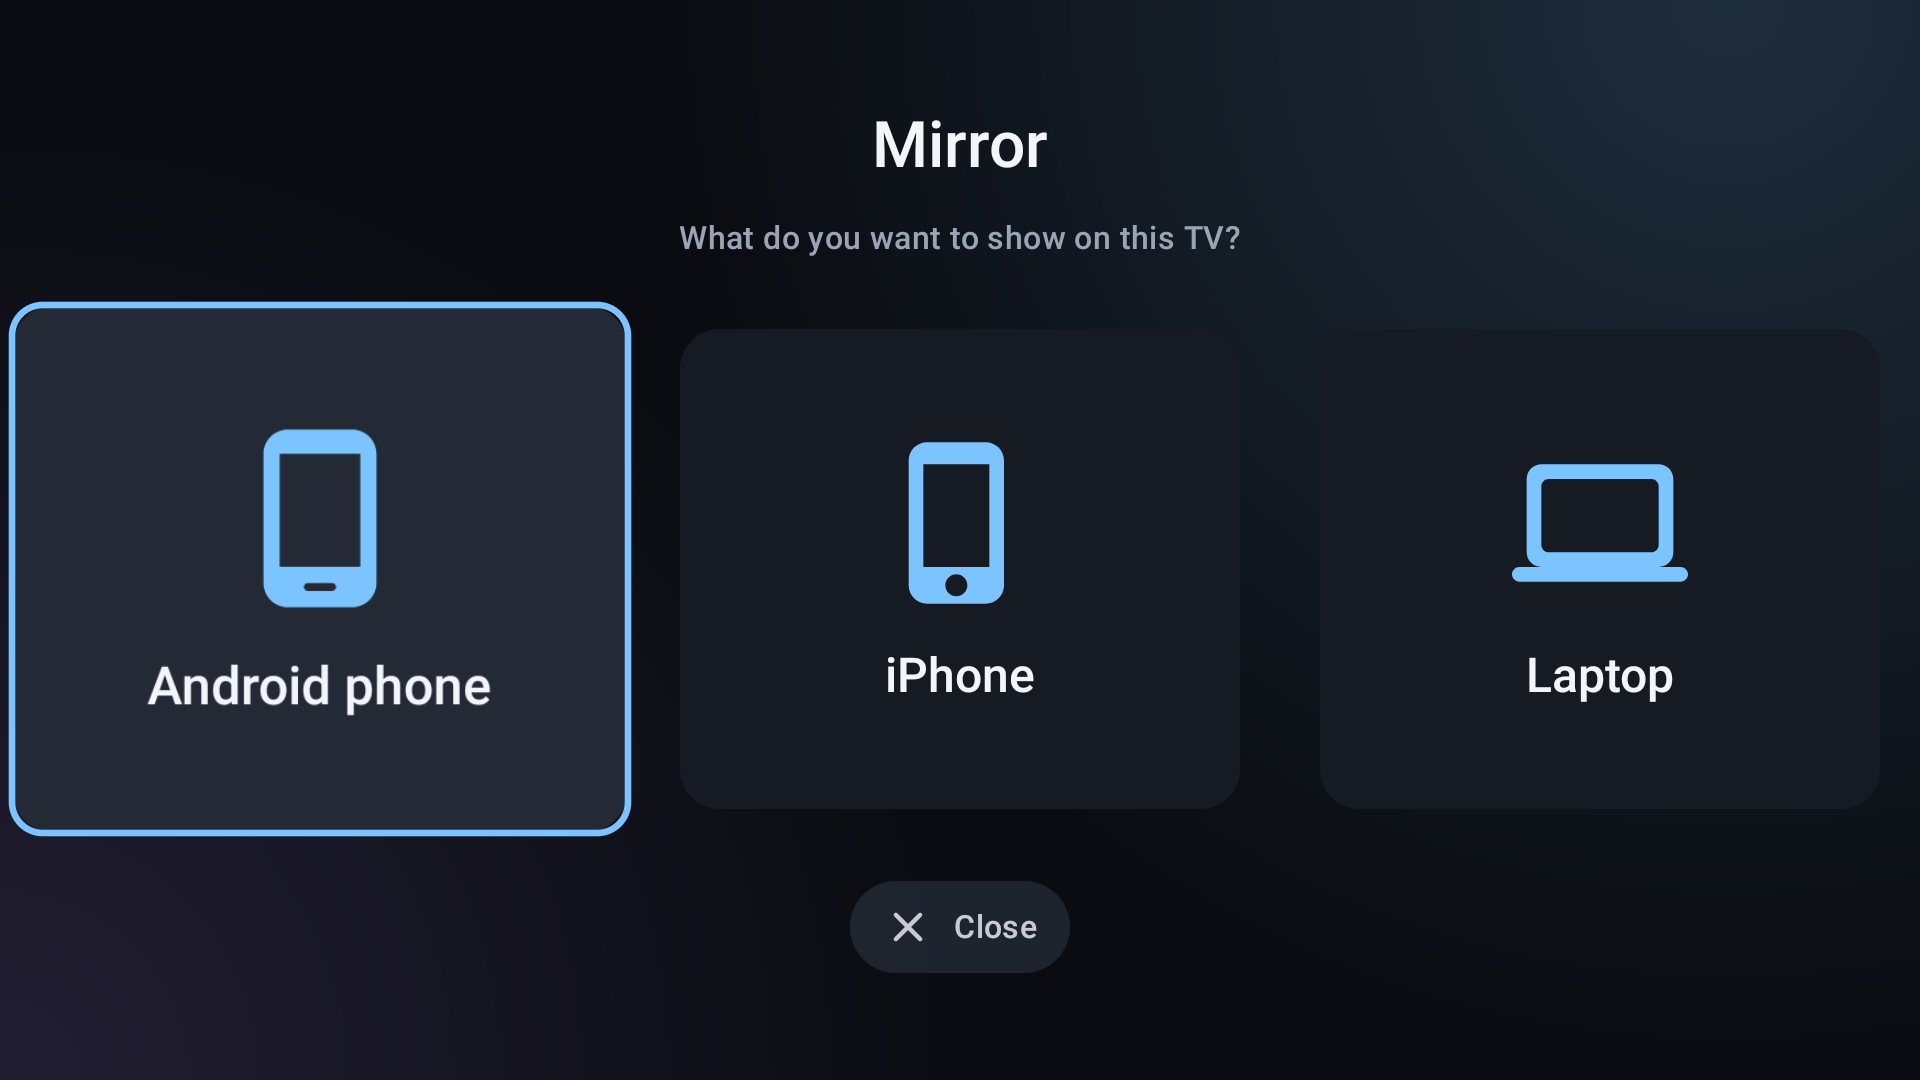
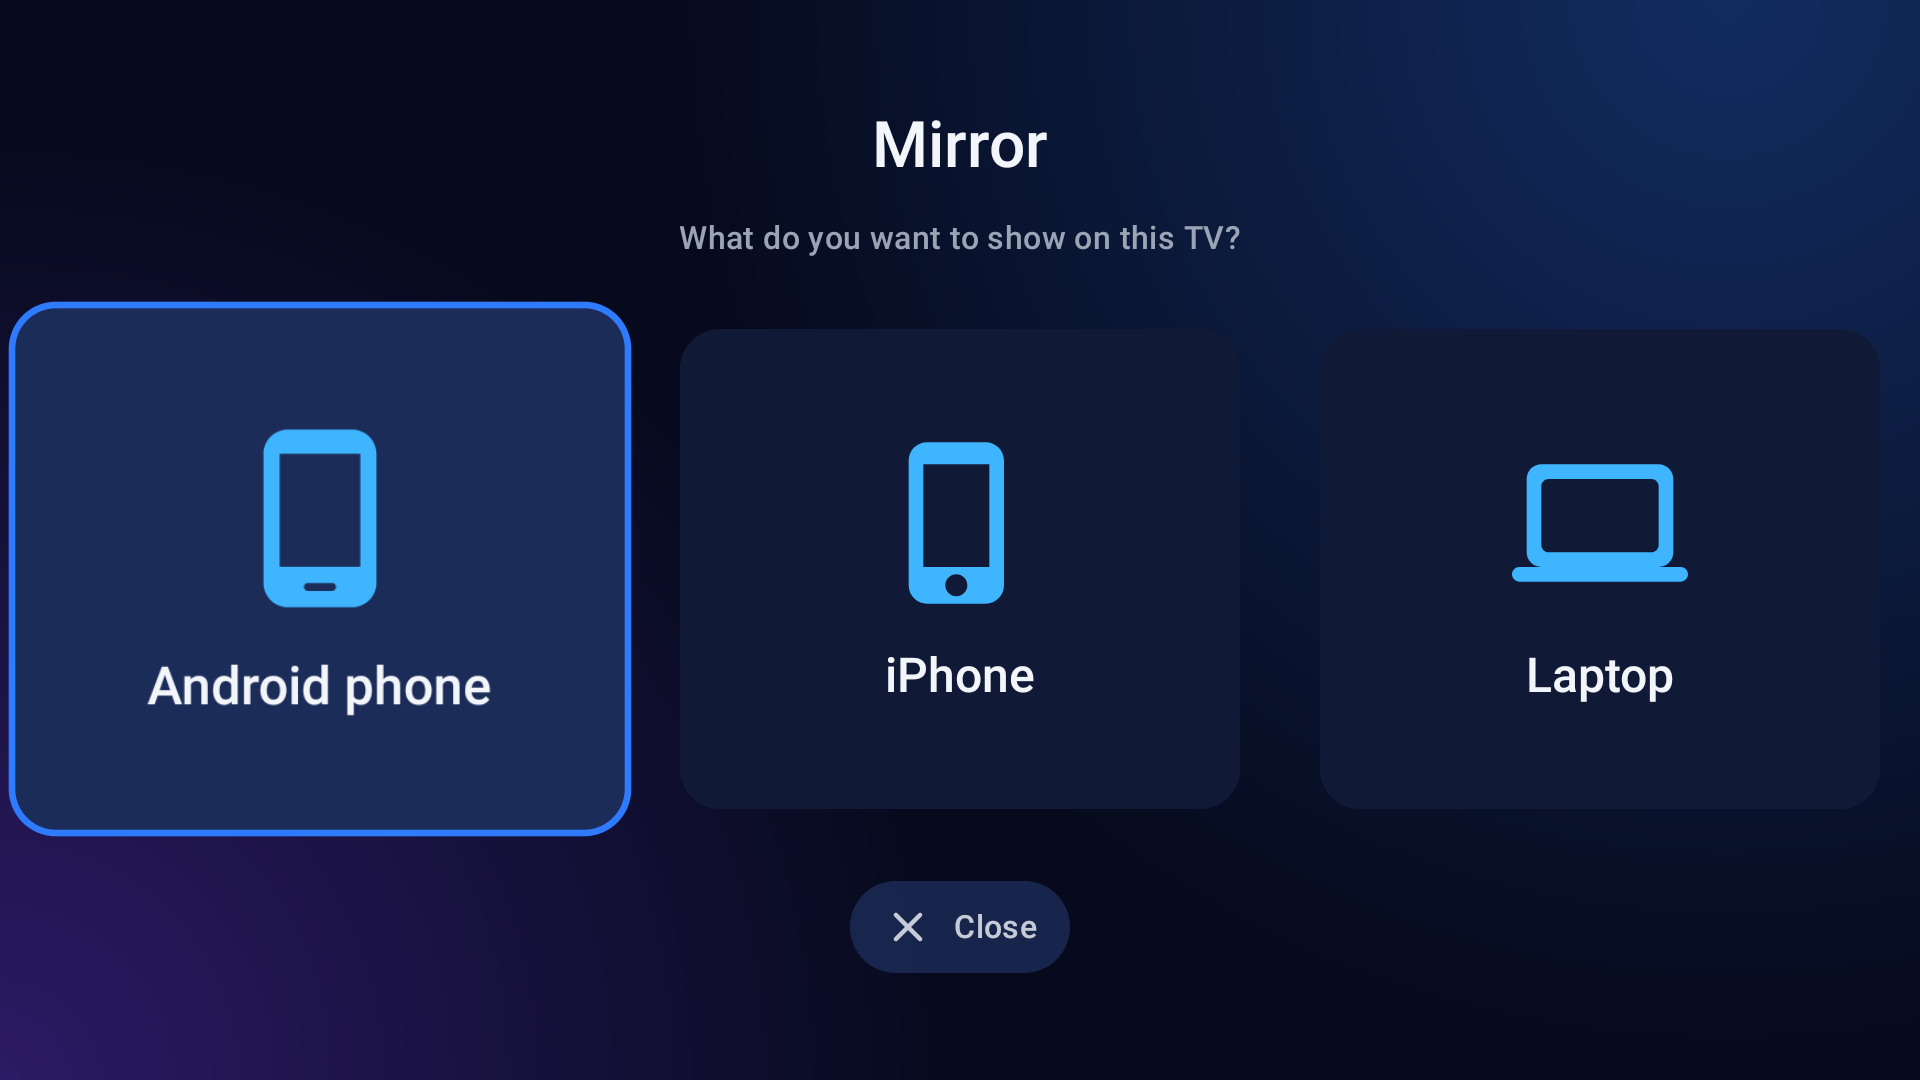
Restyle home screen: navy theme, ruled section titles, glow focus
Deeper navy backdrop with blue and violet washes, section titles with
fading rules, wider input and system tiles, rounder corners and a blue
glow on the focused tile. Refresh the home, system row, all apps, apps
manager and mirror choice screenshots.

diff --git a/app/src/main/java/dev/mahesh/icontrol/ui/Components.kt b/app/src/main/java/dev/mahesh/icontrol/ui/Components.kt
@@ -12,6 +12,7 @@ import androidx.compose.foundation.layout.PaddingValues
 import androidx.compose.foundation.layout.Row
 import androidx.compose.foundation.layout.fillMaxSize
 import androidx.compose.foundation.layout.fillMaxWidth
+import androidx.compose.foundation.layout.height
 import androidx.compose.foundation.layout.padding
 import androidx.compose.foundation.layout.size
 import androidx.compose.foundation.lazy.LazyRow
@@ -45,7 +46,7 @@ import androidx.tv.material3.Text
 import dev.mahesh.icontrol.data.AppEntry
 import dev.mahesh.icontrol.data.AppImage
 
-private val CardShape = RoundedCornerShape(14.dp)
+private val CardShape = RoundedCornerShape(20.dp)
 
 /** The focused item is 30% larger than the rest so it is unmistakable from across the room. */
 const val FocusedScale = 1.3f
@@ -62,9 +63,14 @@ internal fun focusColors() = ClickableSurfaceDefaults.colors(
 @Composable
 internal fun focusBorder() = ClickableSurfaceDefaults.border(
     focusedBorder = androidx.tv.material3.Border(
-        border = BorderStroke(3.dp, Palette.Accent),
+        border = BorderStroke(3.dp, Palette.Glow),
         shape = CardShape,
     ),
+)
+
+@Composable
+internal fun focusGlow() = ClickableSurfaceDefaults.glow(
+    focusedGlow = androidx.tv.material3.Glow(elevationColor = Palette.Glow.copy(alpha = 0.6f), elevation = 18.dp),
 )
 
 @Composable
@@ -77,15 +83,36 @@ fun SectionRow(
         horizontalAlignment = Alignment.CenterHorizontally,
         modifier = modifier.fillMaxWidth(),
     ) {
-        Text(
-            text = title,
-            style = MaterialTheme.typography.titleMedium,
-            color = Palette.TextSecondary,
-            fontWeight = FontWeight.SemiBold,
-            modifier = Modifier.padding(top = 6.dp, bottom = 8.dp),
-        )
+        Row(
+            verticalAlignment = Alignment.CenterVertically,
+            modifier = Modifier
+                .fillMaxWidth()
+                .padding(horizontal = ScreenPadding)
+                .padding(top = 6.dp, bottom = 8.dp),
+        ) {
+            SectionRule(Modifier.weight(1f), toEnd = true)
+            Text(
+                text = title,
+                style = MaterialTheme.typography.titleMedium,
+                color = Palette.SectionTitle,
+                fontWeight = FontWeight.SemiBold,
+                modifier = Modifier.padding(horizontal = 16.dp),
+            )
+            SectionRule(Modifier.weight(1f), toEnd = false)
+        }
         content()
     }
+}
+
+/** Hairline that fades out away from the section title. */
+@Composable
+private fun SectionRule(modifier: Modifier, toEnd: Boolean) {
+    val line = Palette.SectionTitle.copy(alpha = 0.45f)
+    Box(
+        modifier = modifier
+            .height(1.dp)
+            .background(Brush.horizontalGradient(if (toEnd) listOf(Color.Transparent, line) else listOf(line, Color.Transparent))),
+    )
 }
 
 /**
@@ -143,6 +170,7 @@ fun AppCard(
         shape = ClickableSurfaceDefaults.shape(CardShape),
         colors = focusColors(),
         border = focusBorder(),
+        glow = focusGlow(),
         scale = ClickableSurfaceDefaults.scale(focusedScale = focusedScale),
         modifier = modifier
             .size(width = width, height = width * 9 / 16)
@@ -182,6 +210,7 @@ fun ActionTile(
         shape = ClickableSurfaceDefaults.shape(CardShape),
         colors = focusColors(),
         border = focusBorder(),
+        glow = focusGlow(),
         scale = ClickableSurfaceDefaults.scale(focusedScale = focusedScale),
         modifier = modifier
             .size(width = width, height = width * 9 / 16)
@@ -259,28 +288,30 @@ fun ShortcutTile(
     onFocused: (String) -> Unit,
     modifier: Modifier = Modifier,
     width: Dp = 140.dp,
+    focusedScale: Float = 1.08f,
 ) {
     Surface(
         onClick = onClick,
         shape = ClickableSurfaceDefaults.shape(CardShape),
         colors = focusColors(),
         border = focusBorder(),
-        scale = ClickableSurfaceDefaults.scale(focusedScale = FocusedScale),
+        glow = focusGlow(),
+        scale = ClickableSurfaceDefaults.scale(focusedScale = focusedScale),
         modifier = modifier
-            .size(width = width, height = 52.dp)
+            .size(width = width, height = 60.dp)
             .onFocusChanged { if (it.hasFocus) onFocused(label) },
     ) {
         Row(
             verticalAlignment = Alignment.CenterVertically,
             modifier = Modifier
                 .fillMaxSize()
-                .padding(horizontal = 12.dp),
+                .padding(horizontal = 16.dp),
         ) {
             Icon(
                 imageVector = icon,
                 contentDescription = null,
                 tint = Palette.Accent,
-                modifier = Modifier.size(24.dp),
+                modifier = Modifier.size(28.dp),
             )
             Text(
                 text = label,
@@ -290,7 +321,7 @@ fun ShortcutTile(
                 overflow = TextOverflow.Ellipsis,
                 modifier = Modifier
                     .fillMaxWidth()
-                    .padding(start = 8.dp),
+                    .padding(start = 12.dp),
             )
         }
     }

diff --git a/app/src/main/java/dev/mahesh/icontrol/ui/HomeScreen.kt b/app/src/main/java/dev/mahesh/icontrol/ui/HomeScreen.kt
@@ -113,13 +113,14 @@ fun HomeScreen(viewModel: LauncherViewModel) {
             if (hasInputs) {
                 item(key = "inputs") {
                     SectionRow("Inputs") {
-                        CardRow(verticalPadding = TileFocusPadding) {
+                        CardRow(verticalPadding = TileFocusPadding, gap = 24.dp) {
                             items(state.inputs, key = { "input-" + it.id }) { input ->
                                 ShortcutTile(
                                     label = input.label,
                                     icon = Icons.Rounded.Cable,
                                     onClick = { launch(viewModel.repository.inputIntent(input)) },
                                     onFocused = onFocused,
+                                    width = 200.dp,
                                     modifier = if (input == state.inputs.first()) {
                                         Modifier.optionalFocusRequester(firstFocus)
                                     } else Modifier,
@@ -183,7 +184,7 @@ fun HomeScreen(viewModel: LauncherViewModel) {
             item(key = "system") {
                 SectionRow("System") {
                     // Six narrower tiles with a tighter gap so the row fits the screen (a focused tile grows ~18dp each side).
-                    CardRow(verticalPadding = TileFocusPadding, gap = 24.dp) {
+                    CardRow(verticalPadding = TileFocusPadding, gap = 14.dp) {
                         items(SystemShortcuts, key = { it.key }) { shortcut ->
                             ShortcutTile(
                                 label = shortcut.label,
@@ -197,7 +198,7 @@ fun HomeScreen(viewModel: LauncherViewModel) {
                                     }
                                 },
                                 onFocused = onFocused,
-                                width = 120.dp,
+                                width = 132.dp,
                             )
                         }
                     }
@@ -261,7 +262,7 @@ private val FavoriteGap = 56.dp
 
 // Room each row needs above/below so a focused card isn't clipped by the lazy list: 15% of its height, rounded up.
 // Tiles are 52dp tall; favorite cards are about 129dp tall.
-private val TileFocusPadding = 10.dp
+private val TileFocusPadding = 12.dp
 private val FavoriteFocusPadding = 24.dp
 
 @Composable
@@ -295,14 +296,14 @@ private fun Header(focusedLabel: String) {
                 Text(
                     text = meridiem,
                     style = MaterialTheme.typography.titleLarge,
-                    color = Palette.TextSecondary,
+                    color = Palette.SectionTitle,
                     modifier = Modifier.padding(start = 8.dp, bottom = 12.dp),
                 )
             }
             Text(
                 text = date,
                 style = MaterialTheme.typography.titleMedium,
-                color = Palette.TextSecondary,
+                color = Palette.SectionTitle,
             )
         }
         Column(horizontalAlignment = Alignment.End, modifier = Modifier.padding(bottom = 6.dp)) {

diff --git a/app/src/main/java/dev/mahesh/icontrol/ui/Theme.kt b/app/src/main/java/dev/mahesh/icontrol/ui/Theme.kt
@@ -16,11 +16,13 @@ import androidx.tv.material3.darkColorScheme
 val ScreenPadding = 56.dp
 
 object Palette {
-    val Background = Color(0xFF0A0C11)
-    val Surface = Color(0xFF161A22)
-    val SurfaceFocused = Color(0xFF232A36)
-    val Accent = Color(0xFF7CC4FF)
-    val Violet = Color(0xFFB48CFF)
+    val Background = Color(0xFF060A1C)
+    val Surface = Color(0xFF101935)
+    val SurfaceFocused = Color(0xFF1C2C58)
+    val Accent = Color(0xFF3FB4FF)
+    val Glow = Color(0xFF2F7BFF)
+    val Violet = Color(0xFF7A3CFF)
+    val SectionTitle = Color(0xFF8C9BEA)
     val TextPrimary = Color(0xFFF2F5FA)
     val TextSecondary = Color(0xFF9AA4B5)
 }
@@ -42,14 +44,14 @@ fun Modifier.backdrop(): Modifier = drawBehind {
     drawRect(Palette.Background)
     drawRect(
         Brush.radialGradient(
-            colors = listOf(Palette.Accent.copy(alpha = 0.18f), Color.Transparent),
+            colors = listOf(Palette.Glow.copy(alpha = 0.30f), Color.Transparent),
             center = Offset(size.width * 0.9f, 0f),
             radius = size.width * 0.55f,
         ),
     )
     drawRect(
         Brush.radialGradient(
-            colors = listOf(Palette.Violet.copy(alpha = 0.14f), Color.Transparent),
+            colors = listOf(Palette.Violet.copy(alpha = 0.32f), Color.Transparent),
             center = Offset(0f, size.height),
             radius = size.width * 0.5f,
         ),

diff --git a/app/src/main/java/dev/mahesh/icontrol/ui/SystemStats.kt b/app/src/main/java/dev/mahesh/icontrol/ui/SystemStats.kt
@@ -33,11 +33,11 @@ fun MemoryUsage(modifier: Modifier = Modifier) {
     }
     percent?.let {
         Row(modifier = modifier) {
-            Text(text = "Memory", style = MaterialTheme.typography.titleSmall, color = Palette.TextSecondary)
+            Text(text = "Memory", style = MaterialTheme.typography.titleSmall, color = Palette.SectionTitle)
             Text(
                 text = "$it%",
                 style = MaterialTheme.typography.titleSmall,
-                color = if (it >= 85) Palette.Accent else Palette.TextPrimary,
+                color = Palette.Accent,
                 modifier = Modifier.padding(start = 8.dp),
             )
         }
